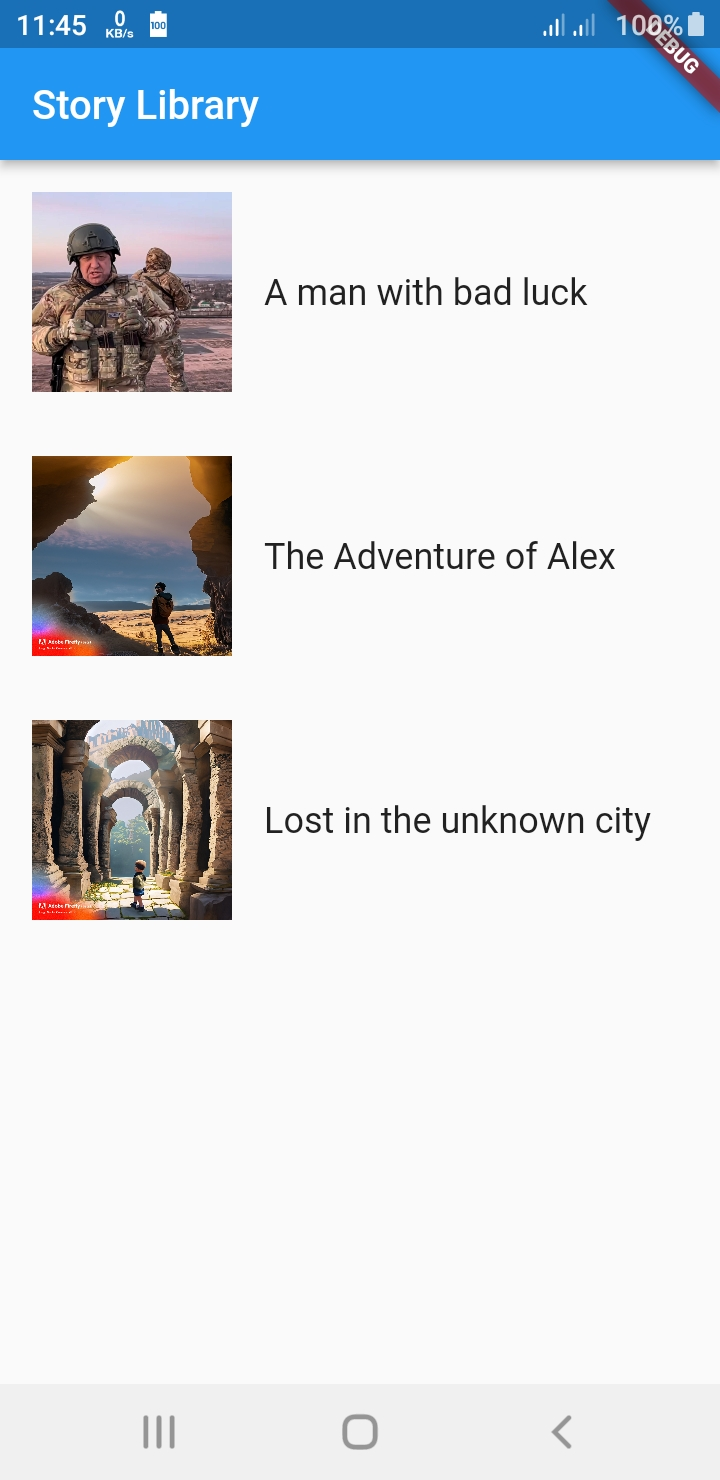
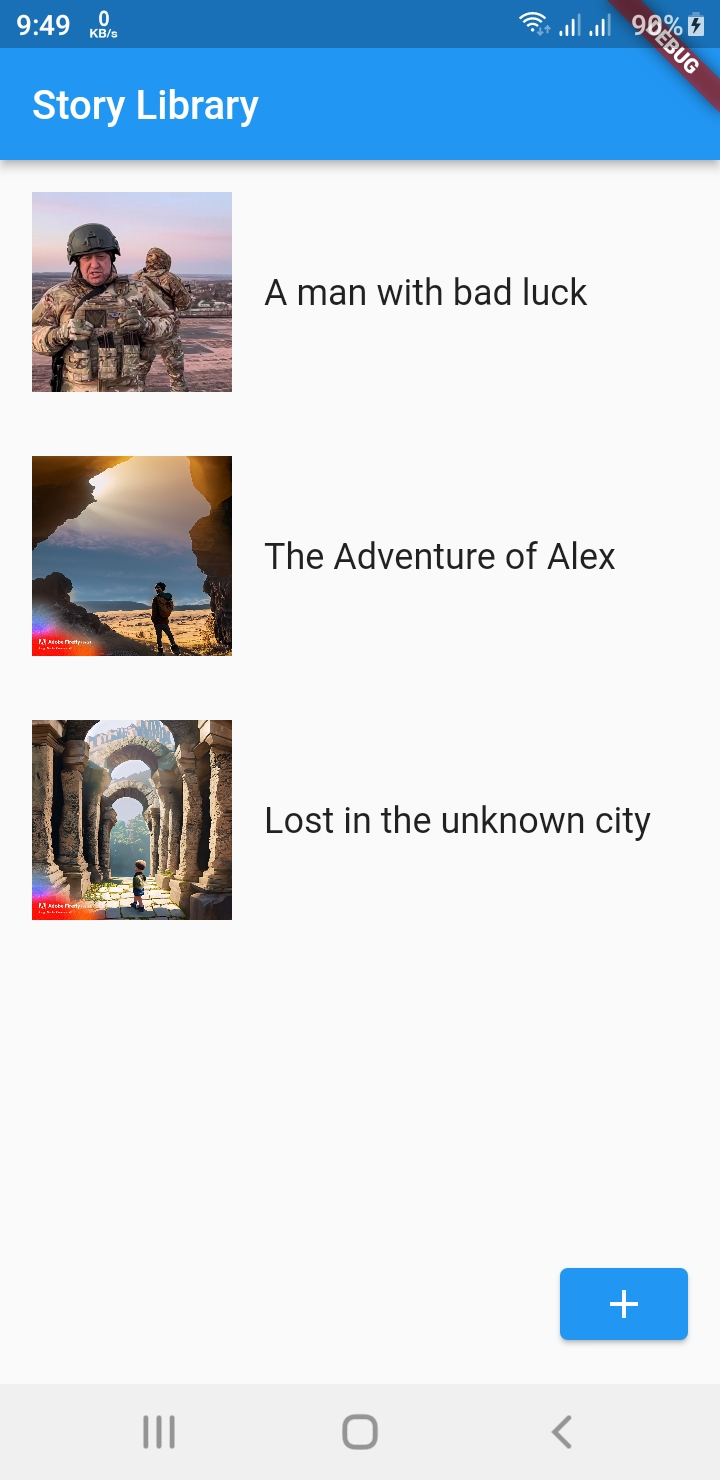
combined read aloud & pause button added

diff --git a/lib/main.dart b/lib/main.dart
@@ -25,6 +25,36 @@ class StoryLibraryScreen extends StatelessWidget {
 
   @override
   Widget build(BuildContext context) {
+    // ignore: no_leading_underscores_for_local_identifiers
+    Future<void> _showMyDialog() async {
+      return showDialog<void>(
+        context: context,
+        barrierDismissible: false, // user must tap button!
+        builder: (BuildContext context) {
+          return AlertDialog(
+            title: const Text('Add New Story'),
+            content: const SingleChildScrollView(
+              child: ListBody(
+                children: <Widget>[
+                  Text('Title'),
+                  Text('Image'),
+                  Text('Content'),
+                ],
+              ),
+            ),
+            actions: <Widget>[
+              TextButton(
+                child: const Text('Save'),
+                onPressed: () {
+                  Navigator.of(context).pop();
+                },
+              ),
+            ],
+          );
+        },
+      );
+    }
+
     return Scaffold(
       appBar: AppBar(
         title: const Text('Story Library'),
@@ -64,28 +94,39 @@ class StoryLibraryScreen extends StatelessWidget {
           );
         },
       ),
+      floatingActionButton: ElevatedButton(
+        onPressed: _showMyDialog,
+        child: const Icon(Icons.add),
+      ),
     );
   }
 }
 
-FlutterTts flutterTts = FlutterTts();
-
-class StoryViewerScreen extends StatelessWidget {
+// ignore: must_be_immutable
+class StoryViewerScreen extends StatefulWidget {
+  StoryViewerScreen({super.key, required this.story});
   final Story story;
 
-  const StoryViewerScreen({super.key, required this.story});
+  FlutterTts flutterTts = FlutterTts();
+
+  @override
+  State<StoryViewerScreen> createState() => _StoryViewerScreen();
+}
+
+class _StoryViewerScreen extends State<StoryViewerScreen> {
+  bool playing = false;
 
   @override
   Widget build(BuildContext context) {
     return Scaffold(
       appBar: AppBar(
-        title: Text(story.title),
+        title: Text(widget.story.title),
       ),
       body: SingleChildScrollView(
         child: Column(
           children: [
             Image.asset(
-              story.coverImage,
+              widget.story.coverImage,
               width: double.infinity,
               height: 200,
               fit: BoxFit.cover,
@@ -93,31 +134,28 @@ class StoryViewerScreen extends StatelessWidget {
             Padding(
               padding: const EdgeInsets.all(16.0),
               child: Text(
-                story.content,
+                widget.story.content,
                 style: const TextStyle(fontSize: 16),
               ),
             ),
             ElevatedButton(
-              onPressed: _speak,
-              child: const Text('Read Aloud'),
-            ),
-            const SizedBox(height: 16),
-            ElevatedButton(
-              onPressed: _stop,
-              child: const Text('Stop Reading'),
+              onPressed: () async {
+                // Implement interactive elements or read-aloud functionality
+                if (playing) {
+                  await widget.flutterTts.pause();
+                } else {
+                  await widget.flutterTts.speak(widget.story.content);
+                }
+                setState(() {
+                  playing = !playing;
+                });
+              },
+              child: Text(playing ? 'Pause' : 'Read Aloud'),
             ),
           ],
         ),
       ),
     );
-  }
-
-  void _speak() async {
-    await flutterTts.speak(story.content);
-  }
-
-  void _stop() async {
-    await flutterTts.pause();
   }
 }
 
@@ -135,33 +173,33 @@ List<Story> storyList = [
     title: 'A man with bad luck',
     coverImage: 'assets/yevgeny_prigozhin.jpeg',
     content:
-        "Yevgeny Prigozhin (1 June 1961 - 23 August 2023) was a Russian oligarch and leader of the Wagner private military company. He was a close confidant of Russian President Vladimir Putin until he launched a rebellion in June 2023."
-        "Prigozhin was sometimes referred to as 'Putin's chef' because he owned restaurants and catering businesses that provided services to the Kremlin. Once a convict in the Soviet Union, Prigozhin controlled a network of influential companies whose operations, according to a 2022 investigation,"
-        "were 'tightly integrated with Russia's Defence Ministry and its intelligence arm, the GRU'.\n\n In 2014, Prigozhin reportedly founded the Wagner Group to support pro-Russian paramilitaries in Ukraine. Funded by the Russian state, it played a significant role in Russia's invasion of Ukraine and"
-        "supported Russian interests in the Middle East and in Africa. In November 2022, Prigozhin acknowledged his companies' interference in United States elections. In February 2023, he confirmed that he was the founder and long-time manager of the Internet Research Agency, a Russian company accused"
+        "Yevgeny Prigozhin (1 June 1961 - 23 August 2023) was a Russian oligarch and leader of the Wagner private military company. He was a close confidant of Russian President Vladimir Putin until he launched a rebellion in June 2023. "
+        "Prigozhin was sometimes referred to as 'Putin's chef' because he owned restaurants and catering businesses that provided services to the Kremlin. Once a convict in the Soviet Union, Prigozhin controlled a network of influential companies whose operations, according to a 2022 investigation, "
+        "were 'tightly integrated with Russia's Defence Ministry and its intelligence arm, the GRU'.\n\n In 2014, Prigozhin reportedly founded the Wagner Group to support pro-Russian paramilitaries in Ukraine. Funded by the Russian state, it played a significant role in Russia's invasion of Ukraine and "
+        "supported Russian interests in the Middle East and in Africa. In November 2022, Prigozhin acknowledged his companies' interference in United States elections. In February 2023, he confirmed that he was the founder and long-time manager of the Internet Research Agency, a Russian company accused "
         "of running online propaganda and disinformation campaigns.",
   ),
   Story(
     title: 'The Adventure of Alex',
     coverImage: 'assets/adventure.jpg',
     content:
-        "In a land veiled by mystery, young Alex embarked on an extraordinary adventure that would forever alter his life's course. The sun cast golden rays upon the untouched landscape as Alex's curiosity led him into a dense forest, whispering secrets of hidden realms."
-        "Guided by an ancient map, he navigated through towering trees and babbling brooks, stumbling upon a forgotten cave entrance. Inside, shimmering crystals illuminated a trove of relics from eras unknown. Among them was a weathered journal chronicling tales of courage and wonder."
-        "Driven by an insatiable thirst for knowledge, Alex deciphered the journal's cryptic passages, uncovering the path to a mythical artifact—a source of boundless power. With the journal in hand, he faced treacherous challenges and unraveled age-old puzzles, proving his mettle as a true adventurer."
-        "Yet, the artifact's allure was a double-edged sword, tempting even the noblest hearts with its promise. In the final confrontation, Alex chose wisdom over power, leaving the artifact untouched, safeguarding the balance of the world."
+        "In a land veiled by mystery, young Alex embarked on an extraordinary adventure that would forever alter his life's course. The sun cast golden rays upon the untouched landscape as Alex's curiosity led him into a dense forest, whispering secrets of hidden realms. "
+        "Guided by an ancient map, he navigated through towering trees and babbling brooks, stumbling upon a forgotten cave entrance. Inside, shimmering crystals illuminated a trove of relics from eras unknown. Among them was a weathered journal chronicling tales of courage and wonder. "
+        "Driven by an insatiable thirst for knowledge, Alex deciphered the journal's cryptic passages, uncovering the path to a mythical artifact—a source of boundless power. With the journal in hand, he faced treacherous challenges and unraveled age-old puzzles, proving his mettle as a true adventurer. "
+        "Yet, the artifact's allure was a double-edged sword, tempting even the noblest hearts with its promise. In the final confrontation, Alex chose wisdom over power, leaving the artifact untouched, safeguarding the balance of the world. "
         "Emerging from the depths, Alex returned to his village a hero, not for the treasures he sought, but for the wisdom he gained. The adventure transformed him, gifting him a legacy of courage, humility, and a lifelong appreciation for life's enigmatic wonders.",
   ),
   Story(
     title: 'Lost in the unknown city',
     coverImage: 'assets/lost_in_city.jpg',
     content:
-        "Amidst the whispers of history, a young boy named Leo found himself adrift in the labyrinthine alleys of an ancient city. The city's stones spoke tales of empires and epochs long past, and as Leo wandered its cobblestone streets, he became a living echo of the past."
-        "Separated from his family during a bustling market day, Leo's heart raced with a mix of awe and fear. Towering columns, ornate archways, and weathered statues cast their shadows on him. The city's grandeur seemed to hold him captive, weaving a spell of enchantment that entwined his steps."
-        "As the sun dipped below the horizon, Leo's footsteps took him deeper into the heart of the city. Flickering lanterns illuminated forgotten courtyards and secret passages. He glimpsed glimpses of lives that had once thrived within these walls—merchants, poets, artisans—all leaving whispers of their existence for him to discover."
-        "Leo's journey led him to a plaza where an ancient tree stretched its branches toward the stars. Beneath it sat an elderly man, a guardian of the city's memories. His eyes held a wisdom that transcended time, and he listened to Leo's story of being lost amidst the city's stories."
-        "The old man shared tales of bygone eras, igniting Leo's imagination with images of triumphant kings, mysterious artifacts, and untamed adventures. The stories painted a vivid tapestry of the city's history, connecting its past to the present."
-        "With the dawn's light, the city revealed its secrets to Leo. Guided by the old man's wisdom, he navigated its winding paths with newfound purpose. He discovered hidden fountains, intricate mosaics, and the melody of a forgotten song echoing through ancient walls."
-        "Finally, as the city awoke with life, Leo's steps retraced his journey, leading him back to the plaza. There, the old man awaited, a knowing smile gracing his lips. Leo thanked him for the stories and the lessons they held."
+        "Amidst the whispers of history, a young boy named Leo found himself adrift in the labyrinthine alleys of an ancient city. The city's stones spoke tales of empires and epochs long past, and as Leo wandered its cobblestone streets, he became a living echo of the past. "
+        "Separated from his family during a bustling market day, Leo's heart raced with a mix of awe and fear. Towering columns, ornate archways, and weathered statues cast their shadows on him. The city's grandeur seemed to hold him captive, weaving a spell of enchantment that entwined his steps. "
+        "As the sun dipped below the horizon, Leo's footsteps took him deeper into the heart of the city. Flickering lanterns illuminated forgotten courtyards and secret passages. He glimpsed glimpses of lives that had once thrived within these walls—merchants, poets, artisans—all leaving whispers of their existence for him to discover. "
+        "Leo's journey led him to a plaza where an ancient tree stretched its branches toward the stars. Beneath it sat an elderly man, a guardian of the city's memories. His eyes held a wisdom that transcended time, and he listened to Leo's story of being lost amidst the city's stories. "
+        "The old man shared tales of bygone eras, igniting Leo's imagination with images of triumphant kings, mysterious artifacts, and untamed adventures. The stories painted a vivid tapestry of the city's history, connecting its past to the present. "
+        "With the dawn's light, the city revealed its secrets to Leo. Guided by the old man's wisdom, he navigated its winding paths with newfound purpose. He discovered hidden fountains, intricate mosaics, and the melody of a forgotten song echoing through ancient walls. "
+        "Finally, as the city awoke with life, Leo's steps retraced his journey, leading him back to the plaza. There, the old man awaited, a knowing smile gracing his lips. Leo thanked him for the stories and the lessons they held. "
         "As Leo was reunited with his family, he carried with him not only the relief of being found but also the gift of a journey that transcended time. In the embrace of his loved ones, he knew that the ancient city had gifted him not only a day of adventure but a lifetime of stories to share—a treasure woven from the threads of past and present.",
   ),
   // Add more stories here

diff --git a/test/widget_test.dart b/test/widget_test.dart
@@ -8,7 +8,6 @@
 import 'package:flutter/material.dart';
 import 'package:flutter_test/flutter_test.dart';
 
-import 'package:picture_story_time/main.dart';
 
 void main() {
   testWidgets('Counter increments smoke test', (WidgetTester tester) async {

diff --git a/README.md b/README.md
@@ -3,5 +3,6 @@
 ### Some images of the app
 ![home-page](https://github.com/mehedihasanshakil7/Picture-Story-Time/blob/master/img/home_page.jpg)
 ![story-page](https://github.com/mehedihasanshakil7/Picture-Story-Time/blob/master/img/story_page.jpg)
-![buttons](https://github.com/mehedihasanshakil7/Picture-Story-Time/blob/master/img/buttons.jpg)
+![read-aloud](https://github.com/mehedihasanshakil7/Picture-Story-Time/blob/master/img/read_aloud.jpg)
+![pause](https://github.com/mehedihasanshakil7/Picture-Story-Time/blob/master/img/pause.jpg)
 
